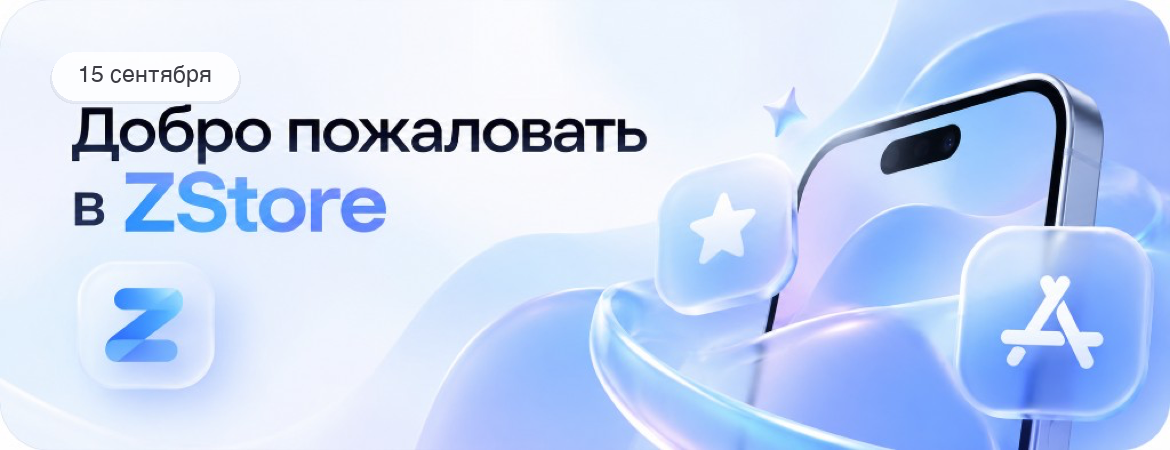
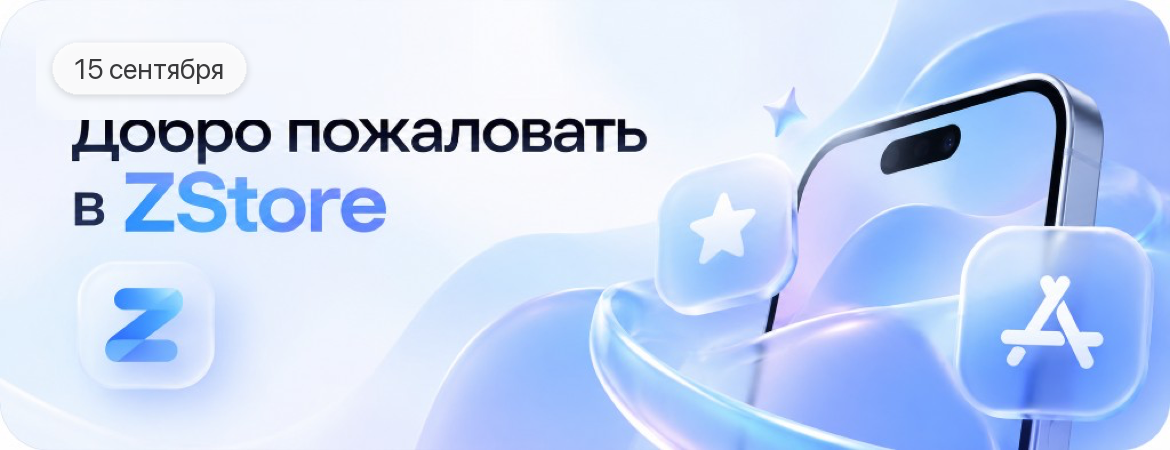
Unify news cover date capsules: same height, font, and padding.

Changed region(s): [[0.0615, 0.1244, 0.1846, 0.28]]

diff --git a/d0e4/news.css b/d0e4/news.css
@@ -133,12 +133,17 @@ a.card:active { transform: scale(0.97); }
 }
 
 .copy .date {
-  display: block;
-  margin-top: 3px;
-  font-size: 14px;
-  line-height: 1.25;
+  display: inline-flex;
+  align-items: center;
+  margin-top: 8px;
+  padding: 5px 11px;
+  border-radius: 999px;
+  background: rgba(120, 120, 128, 0.12);
   color: var(--date);
-  font-weight: 400;
+  font-size: 12px;
+  font-weight: 510;
+  line-height: 1.2;
+  letter-spacing: -0.08px;
 }
 
 .copy p {
@@ -171,9 +176,17 @@ article {
 }
 
 article .date {
-  margin: 0 0 8px;
+  display: inline-flex;
+  align-items: center;
+  margin: 0 0 12px;
+  padding: 5px 11px;
+  border-radius: 999px;
+  background: rgba(120, 120, 128, 0.12);
   color: var(--date);
-  font-size: 15px;
+  font-size: 12px;
+  font-weight: 510;
+  line-height: 1.2;
+  letter-spacing: -0.08px;
 }
 
 article h1 {
@@ -222,6 +235,10 @@ article li {
 
 @media (prefers-color-scheme: dark) {
   .hero { background: #2c2c2e; }
+  .copy .date,
+  article .date {
+    background: rgba(235, 235, 245, 0.14);
+  }
 }
 
 @media (min-width: 768px) {
